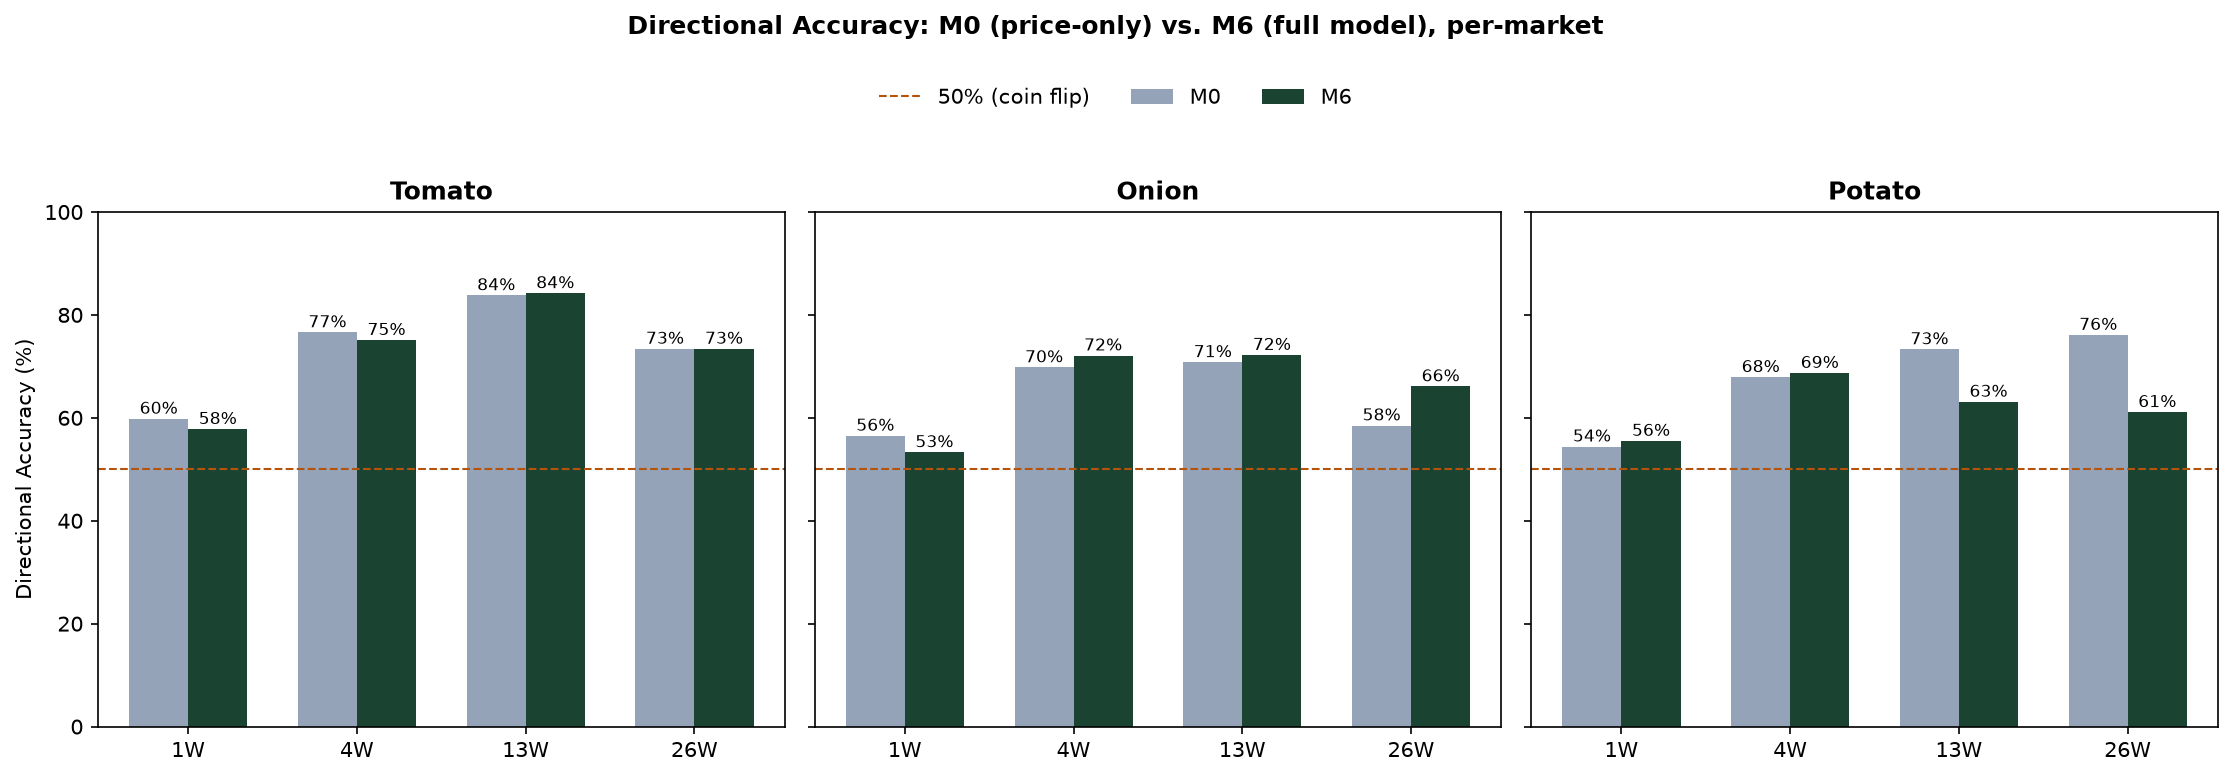
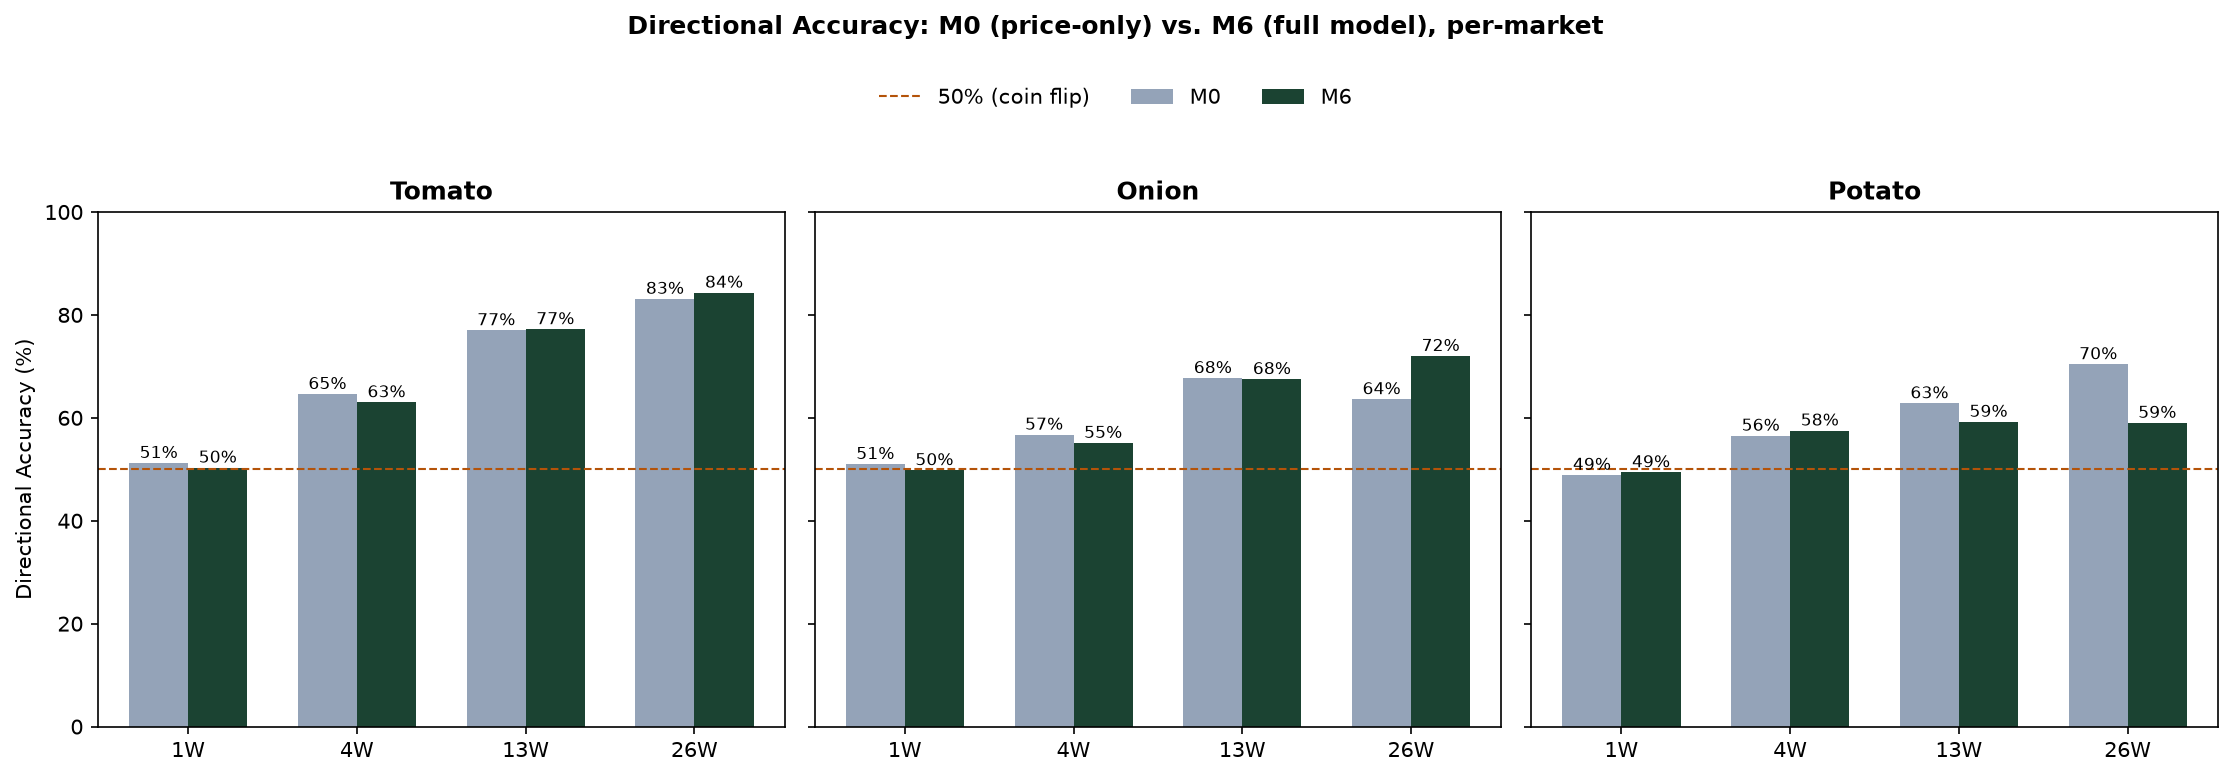
Fix directional accuracy baseline (week_start is the origin week); add one-page accuracy summary figure

diff --git a/scripts/76_Accuracy_Summary_Figure.py b/scripts/76_Accuracy_Summary_Figure.py
@@ -1,0 +1,98 @@
+# -*- coding: utf-8 -*-
+"""
+Script 76 -- One-page accuracy summary figure (for the PI).
+General accuracy (100 - WAPE) and directional accuracy, per crop and horizon:
+  * Backtest: production-method M6, five rolling-origin folds, test 2022-2026 (Script 15 predictions;
+    directional from the corrected Script 46 table).
+  * Live: forecasts the dashboard issued at each weekly refresh since 2026-08-14, scored on later observed
+    prices (Script 74). Only the 1- and 4-week horizons have matured.
+  * Reference ticks: a "no change" guess (last price carried forward), the bar a forecast has to beat.
+Output: Model_Output/fig_accuracy_summary.png
+"""
+import os
+import numpy as np
+import pandas as pd
+import matplotlib
+matplotlib.use('Agg')
+import matplotlib.pyplot as plt
+
+BASE = os.path.dirname(os.path.dirname(os.path.abspath(__file__)))
+OUT = os.path.join(BASE, 'Model_Output')
+CROPS = ['tomato', 'onion', 'potato']; HZ = [1, 4, 13, 26]
+BLUE, ORANGE, INK, MUTED, GRID, SURF = '#2a78d6', '#eb6834', '#0b0b0b', '#52514e', '#e1e0d9', '#fcfcfb'
+
+
+def backtest():
+    p = pd.read_csv(os.path.join(OUT, 'dm_market_level_predictions.csv'), parse_dates=['week_start'])
+    p = p[p['variant'] == 'M6'].copy()
+    pan = pd.read_csv(os.path.join(BASE, 'data', 'agmarknet_weekly', 'top_weekly_panel.csv'),
+                      usecols=['crop', 'market_id', 'week_start', 'modal_price_weighted'], parse_dates=['week_start']).dropna(subset=['market_id'])
+    pan['market_id'] = pan['market_id'].astype(int); p['market_id'] = p['market_id'].astype(int)
+    idx = pan.set_index(['crop', 'market_id', 'week_start'])['modal_price_weighted']
+    p['origin_price'] = idx.reindex(pd.MultiIndex.from_frame(p[['crop', 'market_id', 'week_start']])).to_numpy()   # week_start is the origin week
+    d = pd.read_csv(os.path.join(OUT, 'table_directional_accuracy.csv')); d = d[d['variant'] == 'M6']
+    rows = {}
+    for (c, h), g in p.groupby(['crop', 'horizon_weeks']):
+        gg = g.dropna(subset=['origin_price'])
+        acc = 100 - (g['y_pred'] - g['y_true']).abs().sum() / g['y_true'].sum() * 100
+        nac = 100 - (gg['origin_price'] - gg['y_true']).abs().sum() / gg['y_true'].sum() * 100
+        dr = d[(d['crop'] == c) & (d['horizon_weeks'] == h)]['directional_accuracy_pct'].iloc[0]
+        rows[(c, h)] = dict(acc=acc, naive=nac, dirn=dr)
+    return rows
+
+
+def live():
+    s = pd.read_csv(os.path.join(OUT, 'table_live_track_record_summary.csv'))
+    return {(r.crop, r.horizon_weeks): dict(acc=100 - r.WAPE_model_pct, naive=100 - r.WAPE_persistence_pct, dirn=r.directional_accuracy_pct,
+                                            n=r.n_forecasts, wk=r.n_origin_weeks) for r in s.itertuples()}
+
+
+def main():
+    bt, lv = backtest(), live()
+    plt.rcParams.update({'font.family': 'DejaVu Sans', 'font.size': 10, 'axes.spines.top': False, 'axes.spines.right': False})
+    fig, axs = plt.subplots(2, 3, figsize=(15, 8.6), facecolor=SURF)
+    w = 0.36
+    for j, crop in enumerate(CROPS):
+        for i, (key, ttl, ylim) in enumerate((('acc', 'General accuracy (100 − average % error)', (0, 100)), ('dirn', 'Directional accuracy (% of moves called right)', (0, 100)))):
+            ax = axs[i, j]; ax.set_facecolor(SURF)
+            x = np.arange(len(HZ))
+            b = [bt[(crop, h)][key] for h in HZ]
+            ax.bar(x - w / 2, b, w, color=BLUE, label='Backtest 2022–2026', zorder=3)
+            for xi, v in zip(x, b): ax.text(xi - w / 2, 2, '%.0f' % v, ha='center', va='bottom', fontsize=10, color='white', fontweight='bold', zorder=5)
+            for k, h in enumerate(HZ):
+                if (crop, h) in lv:
+                    v = lv[(crop, h)][key]
+                    ax.bar(k + w / 2, v, w, color=ORANGE, label='Live, Aug–Oct 2026', zorder=3)
+                    ax.text(k + w / 2, 2, '%.0f' % v, ha='center', va='bottom', fontsize=10, color=INK, fontweight='bold', zorder=5)
+                else:
+                    ax.text(k + w / 2, 3, 'not yet\nmatured', ha='center', va='bottom', fontsize=7.5, color=MUTED)
+            if key == 'acc':
+                for k, h in enumerate(HZ):
+                    ax.plot([k - w, k], [bt[(crop, h)]['naive']] * 2, color=INK, lw=2.2, zorder=4, label='“No change” guess (backtest)')
+                    if (crop, h) in lv:
+                        ax.plot([k, k + w], [lv[(crop, h)]['naive']] * 2, color=INK, lw=2.2, ls=(0, (2, 1.5)), zorder=4, label='“No change” guess (live)')
+            else:
+                ax.axhline(50, color=MUTED, lw=1.2, ls='--', zorder=2, label='Coin flip (50%)')
+            ax.set_xlim(-0.6, 3.75); ax.set_xticks(x); ax.set_xticklabels(['%d wk' % h for h in HZ]); ax.set_ylim(*ylim)
+            ax.yaxis.grid(True, color=GRID, lw=0.8, zorder=0); ax.set_axisbelow(True); ax.tick_params(colors=MUTED, length=0)
+            for s in ('left', 'bottom'): ax.spines[s].set_color(GRID)
+            if j == 0: ax.set_ylabel(ttl, color=INK, fontsize=10)
+            if i == 0: ax.set_title(crop.capitalize(), fontsize=14, fontweight='bold', color=INK, loc='left', pad=10)
+            ax.set_xlabel('Forecast horizon', color=MUTED, fontsize=9)
+    seen = {}
+    for a_ in (axs[0, 0], axs[1, 0]):
+        h_, l_ = a_.get_legend_handles_labels()
+        for hh, ll in zip(h_, l_): seen.setdefault(ll, hh)
+    fig.legend(seen.values(), seen.keys(), loc='upper center', ncol=5, frameon=False, bbox_to_anchor=(0.5, 0.925), fontsize=10)
+    fig.suptitle('How accurate has the TOP Digital Twin been?', fontsize=18, fontweight='bold', color=INK, x=0.012, ha='left', y=0.985)
+    fig.text(0.012, 0.935, 'Price forecasts per market and week. A forecast is only useful if it beats the black “no change” mark.', fontsize=11, color=MUTED, ha='left')
+    note = ('Backtest: 5 rolling-origin folds, 2022–2026; forecasts made without seeing the target period (about 0.9 million market-weeks).\n'
+            'Live: forecasts the dashboard issued at each weekly refresh from 14 Aug 2026, scored on prices that arrived later. 1-week = 5 origin weeks, 4-week = 2 (potato 3 and 2): indicative only. 13/26-week not yet matured.\n'
+            'Onion in the live window: national prices rose about 60% between 10 Aug and 7 Sep 2026; the model forecast falls and missed the rise.  At 1 week no model beats “no change”, and direction is about a coin flip.')
+    fig.text(0.012, 0.012, note, fontsize=8.8, color=MUTED, ha='left', va='bottom', linespacing=1.5)
+    fig.subplots_adjust(left=0.065, right=0.99, top=0.84, bottom=0.17, hspace=0.42, wspace=0.12)
+    out = os.path.join(OUT, 'fig_accuracy_summary.png'); fig.savefig(out, dpi=160, facecolor=SURF); print('wrote', out)
+
+
+if __name__ == '__main__':
+    main()

diff --git a/scripts/46_Directional_Accuracy_Test.py b/scripts/46_Directional_Accuracy_Test.py
@@ -17,8 +17,9 @@ comparison anyway.
 For each (variant, crop, horizon, market, fold, target week) row we have the
 target actual price (y_true) and the model's predicted price (y_pred), but
 NOT the price at the moment the forecast was made (the "origin"). That has
-to be looked up separately: origin_date = target_week - horizon weeks, price
-from the raw weekly panel (data/agmarknet_weekly/top_weekly_panel.csv), keyed
+to be looked up separately: in these prediction files week_start IS the origin week (y_true is the price
+at week_start + horizon weeks -- verified against the panel 2026-10-10), so origin_date = week_start and the
+price comes from the raw weekly panel (data/agmarknet_weekly/top_weekly_panel.csv), keyed
 on (crop, market_id, week_start) same as every other script in this project.
 
   actual_change    = y_true - origin_price
@@ -92,7 +93,10 @@ preds['market_id'] = preds['market_id'].astype(int)
 #     made, i.e. horizon weeks before the target week) for every prediction row
 # ---------------------------------------------------------------------------
 print('\n[2] Computing origin dates and looking up origin prices ...')
-preds['origin_date'] = preds['week_start'] - pd.to_timedelta(preds['horizon_weeks'] * 7, unit='D')
+# FIXED 2026-10-10: week_start is the ORIGIN week (Script 15 writes test['week_start'], and y_true is the price at
+# week_start + horizon). The earlier version subtracted the horizon again, so the baseline was the price h weeks
+# BEFORE the forecast was made and directional accuracy was overstated.
+preds['origin_date'] = preds['week_start']
 
 panel_idx = panel.set_index(['crop', 'market_id', 'week_start'])['modal_price_weighted']
 key = pd.MultiIndex.from_frame(preds[['crop', 'market_id', 'origin_date']].rename(columns={'origin_date': 'week_start'}))
